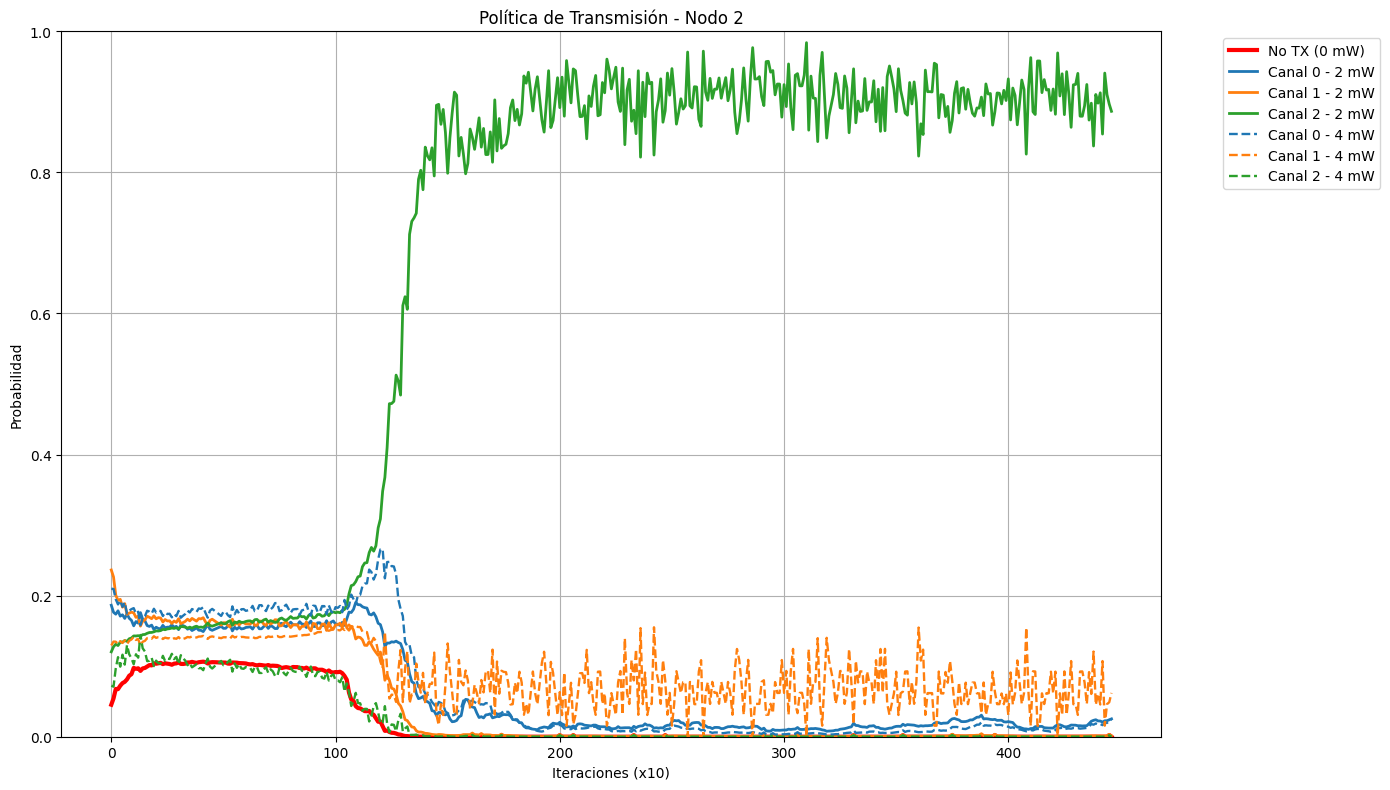
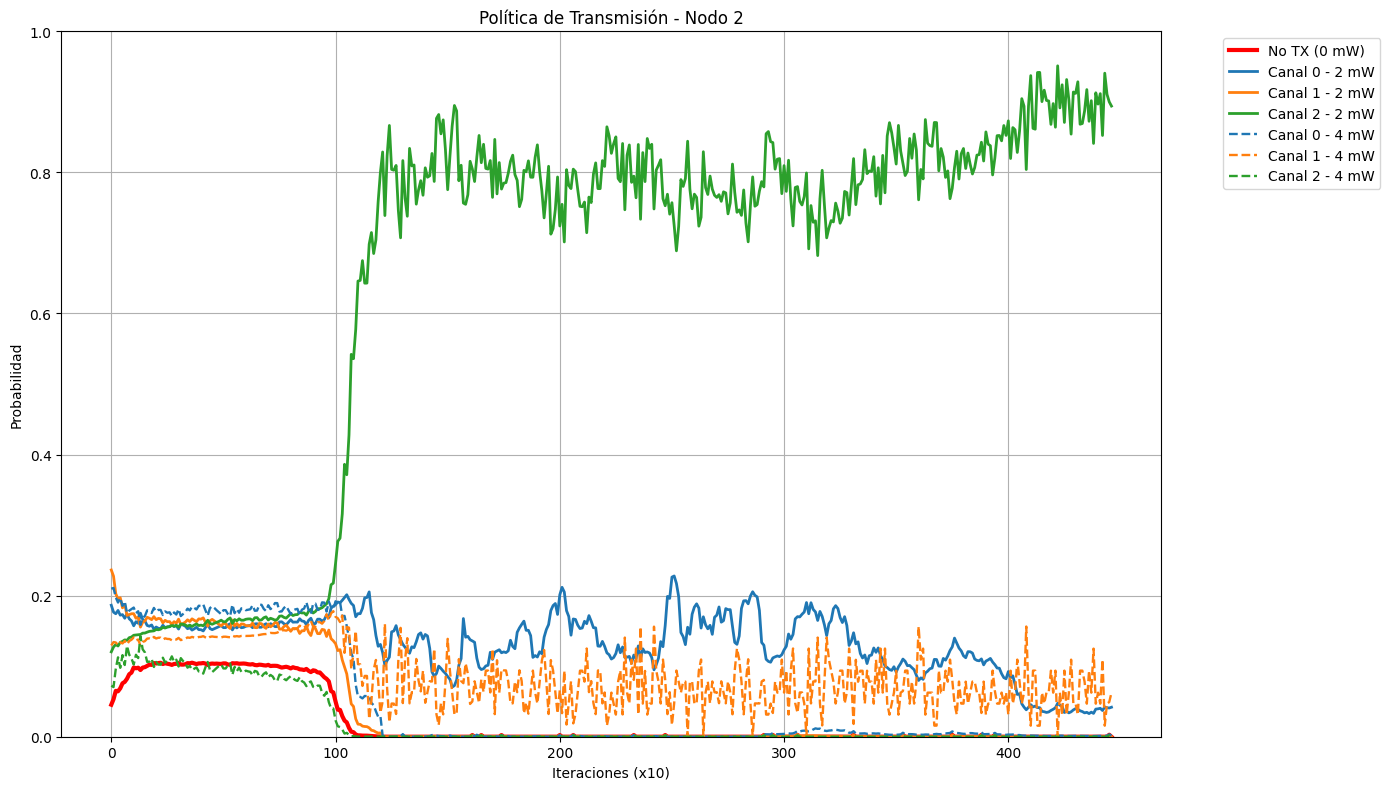
Push del Hito

diff --git a/RUN/utils.py b/RUN/utils.py
@@ -196,29 +196,7 @@ def get_rates(phi, channel_matrix_batch, sigma):
 
 
 # Versión 1 y 2
-# def nuevo_get_rates(phi, channel_matrix_batch, sigma, p0=4, alpha=0.3, p_rx_threshold=1e-1, eps=1e-12):
-#     batch_size, num_links, num_channels = phi.shape
-
-#     # Señal útil
-#     diagH = torch.diagonal(channel_matrix_batch, dim1=1, dim2=2)
-#     signal = diagH.unsqueeze(-1) * phi
-
-#     # Interferencia intra-canal
-#     interf_same = torch.einsum('bij,bjc->bic', channel_matrix_batch.float(), phi.float()) - signal
-
-#     denom = sigma + interf_same
-    
-#     snr = signal / (denom + eps)
-
-#     # Tasa por enlace
-#     rates = torch.log1p(torch.sum(snr, dim=-1))  # [batch, links]
-#     return rates
-
-
-
-# Versión 3
 def nuevo_get_rates(phi, channel_matrix_batch, sigma, p0=4, alpha=0.3, p_rx_threshold=1e-1, eps=1e-12):
-    """Versión corregida de nuevo_get_rates"""
     batch_size, num_links, num_channels = phi.shape
 
     # Señal útil
@@ -228,32 +206,54 @@ def nuevo_get_rates(phi, channel_matrix_batch, sigma, p0=4, alpha=0.3, p_rx_thre
     # Interferencia intra-canal
     interf_same = torch.einsum('bij,bjc->bic', channel_matrix_batch.float(), phi.float()) - signal
 
-    # Interferencia por canales solapados
-    interf_overlap = torch.zeros_like(interf_same)
-    if num_channels > 1:
-        left_shift = torch.roll(phi, shifts=1, dims=2)
-        right_shift = torch.roll(phi, shifts=-1, dims=2)
-        interf_overlap = alpha * (left_shift + right_shift)
-    interf_overlap *= alpha
-
-    denom = sigma + interf_same + interf_overlap
+    denom = sigma + interf_same
     
     snr = signal / (denom + eps)
-
-    for c in range(num_channels):
-        p_ch = phi[:, :, c]
-        recv_power = channel_matrix_batch * p_ch.unsqueeze(1)
-        
-        tx_active = p_ch > eps
-        seen = (recv_power >= p_rx_threshold) & (tx_active.unsqueeze(1))
-        seen_count = seen.sum(dim=-1) 
-        
-        invalid = seen_count >= 2
-        
-        snr[:, :, c] = snr[:, :, c] * (~invalid).float()  
 
     # Tasa por enlace
     rates = torch.log1p(torch.sum(snr, dim=-1))  # [batch, links]
     return rates
+
+
+
+# # Versión 3
+# def nuevo_get_rates(phi, channel_matrix_batch, sigma, p0=4, alpha=0.3, p_rx_threshold=1e-1, eps=1e-12):
+#     """Versión corregida de nuevo_get_rates"""
+#     batch_size, num_links, num_channels = phi.shape
+
+#     # Señal útil
+#     diagH = torch.diagonal(channel_matrix_batch, dim1=1, dim2=2)
+#     signal = diagH.unsqueeze(-1) * phi
+
+#     # Interferencia intra-canal
+#     interf_same = torch.einsum('bij,bjc->bic', channel_matrix_batch.float(), phi.float()) - signal
+
+#     # Interferencia por canales solapados
+#     interf_overlap = torch.zeros_like(interf_same)
+#     if num_channels > 1:
+#         left_shift = torch.roll(phi, shifts=1, dims=2)
+#         right_shift = torch.roll(phi, shifts=-1, dims=2)
+#         interf_overlap = alpha * (left_shift + right_shift)
+#     interf_overlap *= alpha
+
+#     denom = sigma + interf_same + interf_overlap
+    
+#     snr = signal / (denom + eps)
+
+#     for c in range(num_channels):
+#         p_ch = phi[:, :, c]
+#         recv_power = channel_matrix_batch * p_ch.unsqueeze(1)
+        
+#         tx_active = p_ch > eps
+#         seen = (recv_power >= p_rx_threshold) & (tx_active.unsqueeze(1))
+#         seen_count = seen.sum(dim=-1) 
+        
+#         invalid = seen_count >= 2
+        
+#         snr[:, :, c] = snr[:, :, c] * (~invalid).float()  
+
+#     # Tasa por enlace
+#     rates = torch.log1p(torch.sum(snr, dim=-1))  # [batch, links]
+#     return rates
 
 

diff --git a/RUN/plot_results_torch.py b/RUN/plot_results_torch.py
@@ -199,64 +199,6 @@ def plot_results(building_id, b5g, normalized_psi, normalized_psi_values=[], pow
 
 
 # Versión 2
-    # if (len(normalized_psi_values) > 0):
-    #     normalized_psi_array = np.array(normalized_psi_values)  # [iterations, num_links, num_channels+1]
-        
-    #     # Obtener también datos de potencia si están disponibles
-    #     power_array = np.array(power_values) if len(power_values) > 0 else None  # [iterations, num_links, num_channels]
-        
-    #     num_nodes = normalized_psi_array.shape[1]
-    #     num_channels = power_array.shape[2] if power_array is not None else 0 # Use power_array shape for num_channels
-        
-    #     # Crear carpeta para políticas por nodo
-    #     policy_dir = os.path.join(path, 'policy_per_node')
-    #     if not os.path.exists(policy_dir):
-    #         os.makedirs(policy_dir)
-        
-    #     # Plot para cada nodo: probabilidades y potencia
-    #     for node_idx in range(num_nodes):
-    #         fig, (ax1, ax2) = plt.subplots(2, 1, figsize=(16, 12))
-            
-    #         # Subplot 1: Probabilidades de canales
-    #         ax1.set_title(f'Probabilidades de Canales - Nodo {node_idx}')
-    #         ax1.set_xlabel('Iteraciones (x10)')
-    #         ax1.set_ylabel('Probabilidad')
-    #         ax1.set_ylim(0, 1)
-    #         ax1.grid(True)
-            
-    #         # Plotear cada canal (incluyendo "No TX")
-    #         for channel_idx in range(normalized_psi_array.shape[2]):
-    #             if channel_idx == 0:
-    #                 label = 'No TX'
-    #                 color = 'red'
-    #             else:
-    #                 label = f'Canal {channel_idx-1}'
-    #                 color = f'C{channel_idx-1}'
-                
-    #             ax1.plot(normalized_psi_array[:, node_idx, channel_idx], 
-    #                     label=label, color=color, linewidth=2)
-            
-    #         ax1.legend()
-            
-    #         # Subplot 2: Niveles de potencia por canal (si hay datos)
-    #         if power_array is not None:
-    #             ax2.set_title(f'Niveles de Potencia - Nodo {node_idx}')
-    #             ax2.set_xlabel('Iteraciones (x10)')
-    #             ax2.set_ylabel('Potencia')
-    #             ax2.grid(True)
-                
-    #             for channel_idx in range(num_channels):
-    #                 ax2.plot(power_array[:, node_idx, channel_idx], 
-    #                         label=f'Canal {channel_idx} Potencia', 
-    #                         color=f'C{channel_idx}', linewidth=2, linestyle='--')
-                
-    #             ax2.legend()
-            
-    #         plt.tight_layout()
-    #         image_name = f'node_{node_idx}_channel_power_analysis.png'
-    #         image_path = os.path.join(policy_dir, image_name)
-    #         plt.savefig(image_path)
-    #         plt.close()
     if (len(normalized_psi_values) > 0):
         normalized_psi_array = np.array(normalized_psi_values)  # [iterations, num_links, num_actions]
         

diff --git a/RUN/train.py b/RUN/train.py
@@ -57,7 +57,7 @@ def run(building_id=990, b5g=False, num_links=5, num_channels=3, num_layers=5, K
         dataloader = DataLoader(dataset, batch_size=batch_size, shuffle=True, drop_last=True)
 
     max_antenna_power_mw = 10 ** (max_antenna_power_dbm / 10)
-    pmax_per_ap = max_antenna_power_mw*0.8* torch.ones((num_links,))
+    pmax_per_ap = max_antenna_power_mw*0.7* torch.ones((num_links,))
     mu_k =  torch.ones((num_links,), requires_grad=False)  
 
     # ---- Definición de red ----
@@ -281,7 +281,7 @@ if __name__ == '__main__':
     parser.add_argument('--num_links', type=int, default=5)
     parser.add_argument('--num_layers', type=int, default=4)
     parser.add_argument('--k', type=int, default=3)
-    parser.add_argument('--epochs', type=int, default=149)
+    parser.add_argument('--epochs', type=int, default=150)
     parser.add_argument('--batch_size', type=int, default=64)
     parser.add_argument('--eps', type=float, default=5e-4)
     parser.add_argument('--mu_lr', type=float, default=5e-4)
